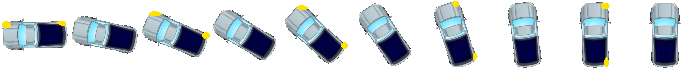
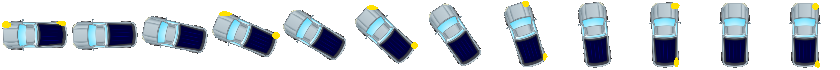
(krizovatka5) : pridanie dalsieho auta s pohybom cez krizovatku

diff --git a/krizovatka5JS.js b/krizovatka5JS.js
@@ -1,0 +1,244 @@
+let img = new Image();
+img.src="Krizovatka1.png";
+let imgAuto = new Image();
+imgAuto.src= "zatacajuceAuto1.png";
+
+let imgAuto10 = new Image();
+imgAuto10.src = "zatacajuceAuto2.png"
+
+let canvas = document.getElementById('Canvas1');
+let ctx = canvas.getContext('2d');
+
+firstCarCoordinateX = 225;
+firstCarCoordinateY = 200;
+
+secondCarCoordinateX = 330;
+secondCarCoordinateY = 90;
+
+var poradie = new Set();
+
+const scale = 2;
+
+
+img.onload = function() {
+  init();
+
+};
+
+imgAuto.onload = function()
+{
+  init();
+};
+
+imgAuto10.onload = function()
+{
+  init();
+};
+
+
+function init() {
+  ctx.drawImage(img,0,0);
+  drawFrameCarFromBottom(cycleLoopForBottomCar[ currentLoopIndexForBottomCar],currentDirection,firstCarCoordinateX,firstCarCoordinateY);
+  drawFrameCarFromRight(cycleLoopForRightCar[ currentLoopIndexForRightCar],currentDirection,secondCarCoordinateX,secondCarCoordinateY);
+
+
+} 
+
+
+let frameCount = 0;
+
+const widthForBottomCar = 60;
+const heightForBottomCar = 60;
+
+const widthForRightCar = 70;
+const heightForRightCar = 70;
+
+const scaledWidthForBottomCar = scale * widthForBottomCar;
+const scaledHeight = scale * heightForBottomCar;
+
+function drawFrameCarFromBottom(frameX, frameY, canvasX, canvasY) {
+  ctx.drawImage(imgAuto,
+                frameX * widthForBottomCar, 0, widthForBottomCar, heightForBottomCar,
+                canvasX, canvasY, widthForBottomCar, heightForBottomCar);
+                
+}
+
+function drawFrameCarFromRight(frameX, frameY, canvasX, canvasY) {
+    ctx.drawImage(imgAuto10,
+                  frameX * widthForRightCar, 0, widthForRightCar, heightForRightCar,
+                  canvasX, canvasY, widthForRightCar, heightForRightCar);
+                  
+  }
+
+const cycleLoopForBottomCar = [0, 1, 2, 3, 4, 5, 6];
+let currentLoopIndexForBottomCar = 0;
+let currentDirection = 0;
+
+function stepWithFirstCar() {
+    while(firstCarCoordinateX > -100   )
+    {
+    frameCount++;
+    if (frameCount < 2) {
+      window.requestAnimationFrame(stepWithFirstCar);
+      return;
+    }
+
+
+    frameCount = 0;
+
+    ctx.clearRect(0, 0, canvas.width, canvas.height);
+
+    ctx.drawImage(img,0,0);
+
+    drawFrameCarFromBottom(cycleLoopForBottomCar[ currentLoopIndexForBottomCar],currentDirection,firstCarCoordinateX,firstCarCoordinateY);
+    drawFrameCarFromRight(cycleLoopForRightCar[ currentLoopIndexForRightCar],currentDirection,secondCarCoordinateX,secondCarCoordinateY);
+
+        if(firstCarCoordinateY > 135){
+            firstCarCoordinateY = firstCarCoordinateY - scale;
+        }
+
+
+       if(firstCarCoordinateY <= 135 & firstCarCoordinateY > 90){
+        firstCarCoordinateY = firstCarCoordinateY - scale;
+        firstCarCoordinateX = firstCarCoordinateX - scale;
+        if(firstCarCoordinateY == 140 | firstCarCoordinateY == 130  | firstCarCoordinateY == 122 | firstCarCoordinateY == 110)
+        {
+            currentLoopIndexForBottomCar++;
+        }
+    }
+
+        if(firstCarCoordinateY <= 90)
+        {
+            currentLoopIndexForBottomCar = 5;
+            firstCarCoordinateX = firstCarCoordinateX - scale;
+            
+        }
+    }
+    currentLoopIndexForBottomCar = 0;
+    jeDobrePoradie();
+  }
+
+  
+const cycleLoopForRightCar = [0, 1, 2, 3, 4, 5, 6, 7, 8, 9, 10];
+let currentLoopIndexForRightCar = 0;
+
+
+function stepWithSecondCar() {
+  while(secondCarCoordinateY > -100)
+  {
+  frameCount++;
+  if (frameCount < 4) {
+    window.requestAnimationFrame(stepWithSecondCar);
+    return;
+  }
+  frameCount = 0;
+
+
+  ctx.clearRect(0, 0, canvas.width, canvas.height);
+  ctx.drawImage(img,0,0);
+  drawFrameCarFromBottom(cycleLoopForBottomCar[ currentLoopIndexForBottomCar],currentDirection,firstCarCoordinateX,firstCarCoordinateY);
+  drawFrameCarFromRight(cycleLoopForRightCar[ currentLoopIndexForRightCar],currentDirection,secondCarCoordinateX,secondCarCoordinateY);
+
+         if(secondCarCoordinateX > 234){
+            secondCarCoordinateX = secondCarCoordinateX - scale;
+            if((secondCarCoordinateX <= 320 & secondCarCoordinateX >= 310) | (secondCarCoordinateX <= 290 & secondCarCoordinateX >= 280)
+            | (secondCarCoordinateX <= 270 & secondCarCoordinateX >= 260)| (secondCarCoordinateX <= 240 & secondCarCoordinateX >= 230)  )
+            {
+                currentLoopIndexForRightCar = 1;
+            }
+
+            else
+            {
+                currentLoopIndexForRightCar = 0;   
+            }
+        }
+
+
+       if(secondCarCoordinateX <= 234 & secondCarCoordinateX > 216){
+        secondCarCoordinateX = secondCarCoordinateX - scale;
+        secondCarCoordinateY = secondCarCoordinateY - scale;
+        if(secondCarCoordinateX <= 234 & secondCarCoordinateX > 216)
+        {
+            currentLoopIndexForRightCar++;
+        }
+    }
+
+        if(secondCarCoordinateX <= 216)
+        {
+            if((secondCarCoordinateY <= 70 & secondCarCoordinateY >= 60)
+             | (secondCarCoordinateY <= 50 & secondCarCoordinateY >= 40) 
+             | (secondCarCoordinateY <= 30 & secondCarCoordinateY >= 20) )
+             {
+                 currentLoopIndexForRightCar = 9;
+             }
+             else{
+                currentLoopIndexForRightCar = 10;
+             }
+            
+
+
+            secondCarCoordinateY = secondCarCoordinateY - scale;
+            
+        }
+
+  
+  }
+  currentLoopIndexForRightCar = 0;
+  jeDobrePoradie();
+
+}
+
+function jeDobrePoradie()
+{
+  if( secondCarCoordinateY < 30 & firstCarCoordinateX < 30 & poradie.size == 2)
+  {
+
+    document.getElementById('vylustenieKrizovatky').innerHTML = 'Krizovatka Vylustena spravne';
+     console.log("Krizovatka vyriesena spravne");
+ } 
+}
+
+
+function getMovement(canvas, event) { 
+  let rect = canvas.getBoundingClientRect(); 
+  let x = event.clientX - rect.left; 
+  let y = event.clientY - rect.top; 
+ if( x >= firstCarCoordinateX & x <= firstCarCoordinateX +40 & y >= firstCarCoordinateY & y <= firstCarCoordinateY + 30 )
+ {
+  window.requestAnimationFrame(stepWithFirstCar);
+  poradie.add(2);
+  console.log(poradie);
+
+ }
+
+ if( x >= secondCarCoordinateX & x <= secondCarCoordinateX + 40 & y >= secondCarCoordinateY & y <= secondCarCoordinateY + 40 )
+ {
+   window.requestAnimationFrame(stepWithSecondCar);
+   poradie.add(1);
+   console.log(poradie);
+ }
+}
+
+let canvasElem = document.querySelector("canvas"); 
+
+canvasElem.addEventListener("mousedown", function(e) 
+{ 
+  getMovement(canvasElem, e); 
+}); 
+
+function demoFunction()
+{
+    firstCarCoordinateX = 225;
+    firstCarCoordinateY = 200;
+    
+    secondCarCoordinateX = 330;
+    secondCarCoordinateY = 90;
+    stepWithSecondCar();
+  stepWithFirstCar();
+  
+
+//   setTimeout(stepWithSecondCar, 1000 );
+
+
+}
+

diff --git a/krizovatka5.html b/krizovatka5.html
@@ -18,6 +18,8 @@
           </div>
 
         <canvas id="Canvas1" width="480" height="250" ></canvas>
+        <button  onclick="demoFunction()" class="button button1">Demo</button>
+        <p id="vylustenieKrizovatky"></p>
 
         <script type="text/javascript" src="krizovatka5JS.js"></script>
         <div id="navigacia_krizovatky">
